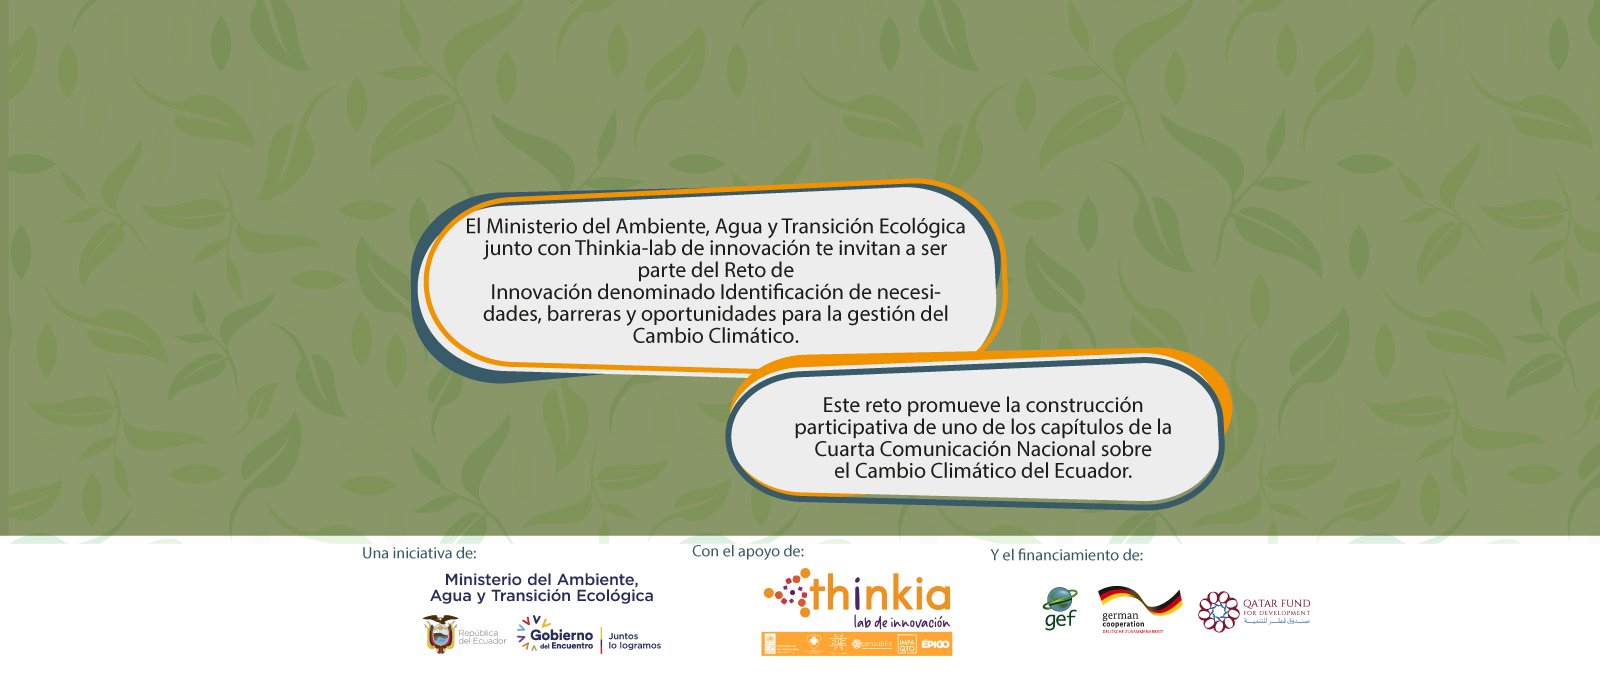
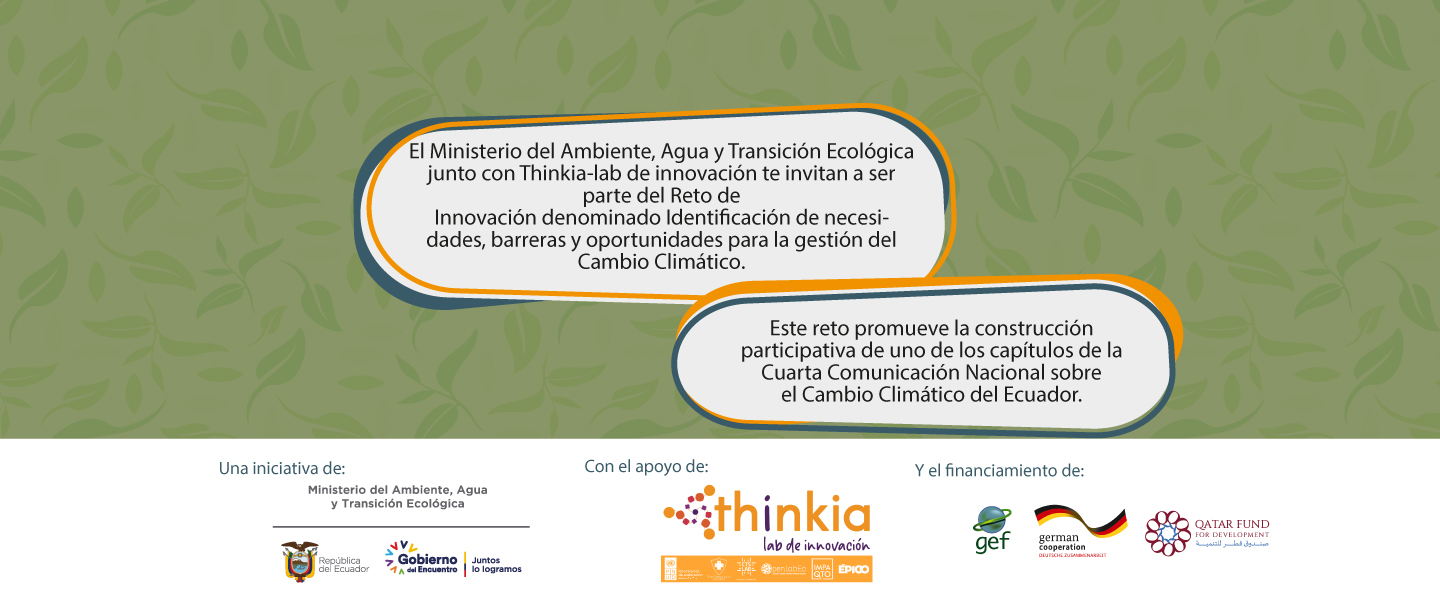
cambios  cambio climatico

Changed region(s): [[0.0, 0.15, 1.0, 0.99], [0.6562, 0.84, 0.875, 0.93]]

diff --git a/resources/views/aplicacion/landing/landing_page_cambio_climatico.blade.php b/resources/views/aplicacion/landing/landing_page_cambio_climatico.blade.php
@@ -168,10 +168,10 @@
             <h3 class="eventos-titulo">Organizado por: </span></h3>
         </div>
         <div class="row">
-            <div class="col-sm-5">
+            <div class="col-sm-4">
             </div>
             <div class="col-sm-3">
-                <img class="justify-content-center" width="300" src="{{ asset('img/landing/logos/Logo_MAATE.png') }}" alt="" />
+                <img class="justify-content-center" style="padding-left: 100px !important" width="500" src="{{ asset('img/landing/logos/Logo-MAATE-modificado.png') }}" alt="" />
             </div>
             <div class="col-sm-3">
             </div>
@@ -266,7 +266,7 @@
                 <div class="ml-md-auto mr-sm-1 py-5 my-sm-0 py-md-2 pl-md-2 pl-lg-8  py-lg-4 text-white ">
                     <div class="row">
                         <div class="col-sm-6" style="padding-left: 10% !important;">
-                            <a class="btn font-weight-bold botonmora text-center" target="_blank" style=" width: 300px;" href="Bases_Cambio_Climatico_V3.pdf">Descarga las bases aquí</a>
+                            <a class="btn font-weight-bold botonmora text-center" target="_blank" style=" width: 300px;" href="https://drive.google.com/file/d/1ij9zHaC8SXum56guHz6ftxkGa5OeWxHe/view?usp=sharing">Descarga las bases aquí</a>
 
                         </div>
                         <div class="col-sm-6" style="padding-left: 3% !important;">

diff --git a/config/common_sliders_landing.php b/config/common_sliders_landing.php
@@ -219,7 +219,7 @@ return [
             'content_classes'           => 'd-flex flex-column justify-content-center align-items-center text-center',
             'text_color'                => 'white',
             'background_color'          => 'black',
-            'background_image_url'      => 'img/landing/banner_cambio_climantico_03_03.png',
+            'background_image_url'      => 'img/landing/banner_cambio_climantico_03_03-2.jpg',
             'background_blend_mode'     => '',
             'background_position'       => 'center',
             'background_size'           => 'cover'
@@ -237,7 +237,7 @@ return [
             'content_classes'           => 'd-flex flex-column justify-content-center align-items-center text-center',
             'text_color'                => 'white',
             'background_color'          => 'black',
-            'background_image_url'      => 'img/landing/banner_cambio_climantico_04_04.png',
+            'background_image_url'      => 'img/landing/banner_cambio_climantico_04_04-2.jpg',
             'background_blend_mode'     => '',
             'background_position'       => 'center',
             'background_size'           => 'cover'
